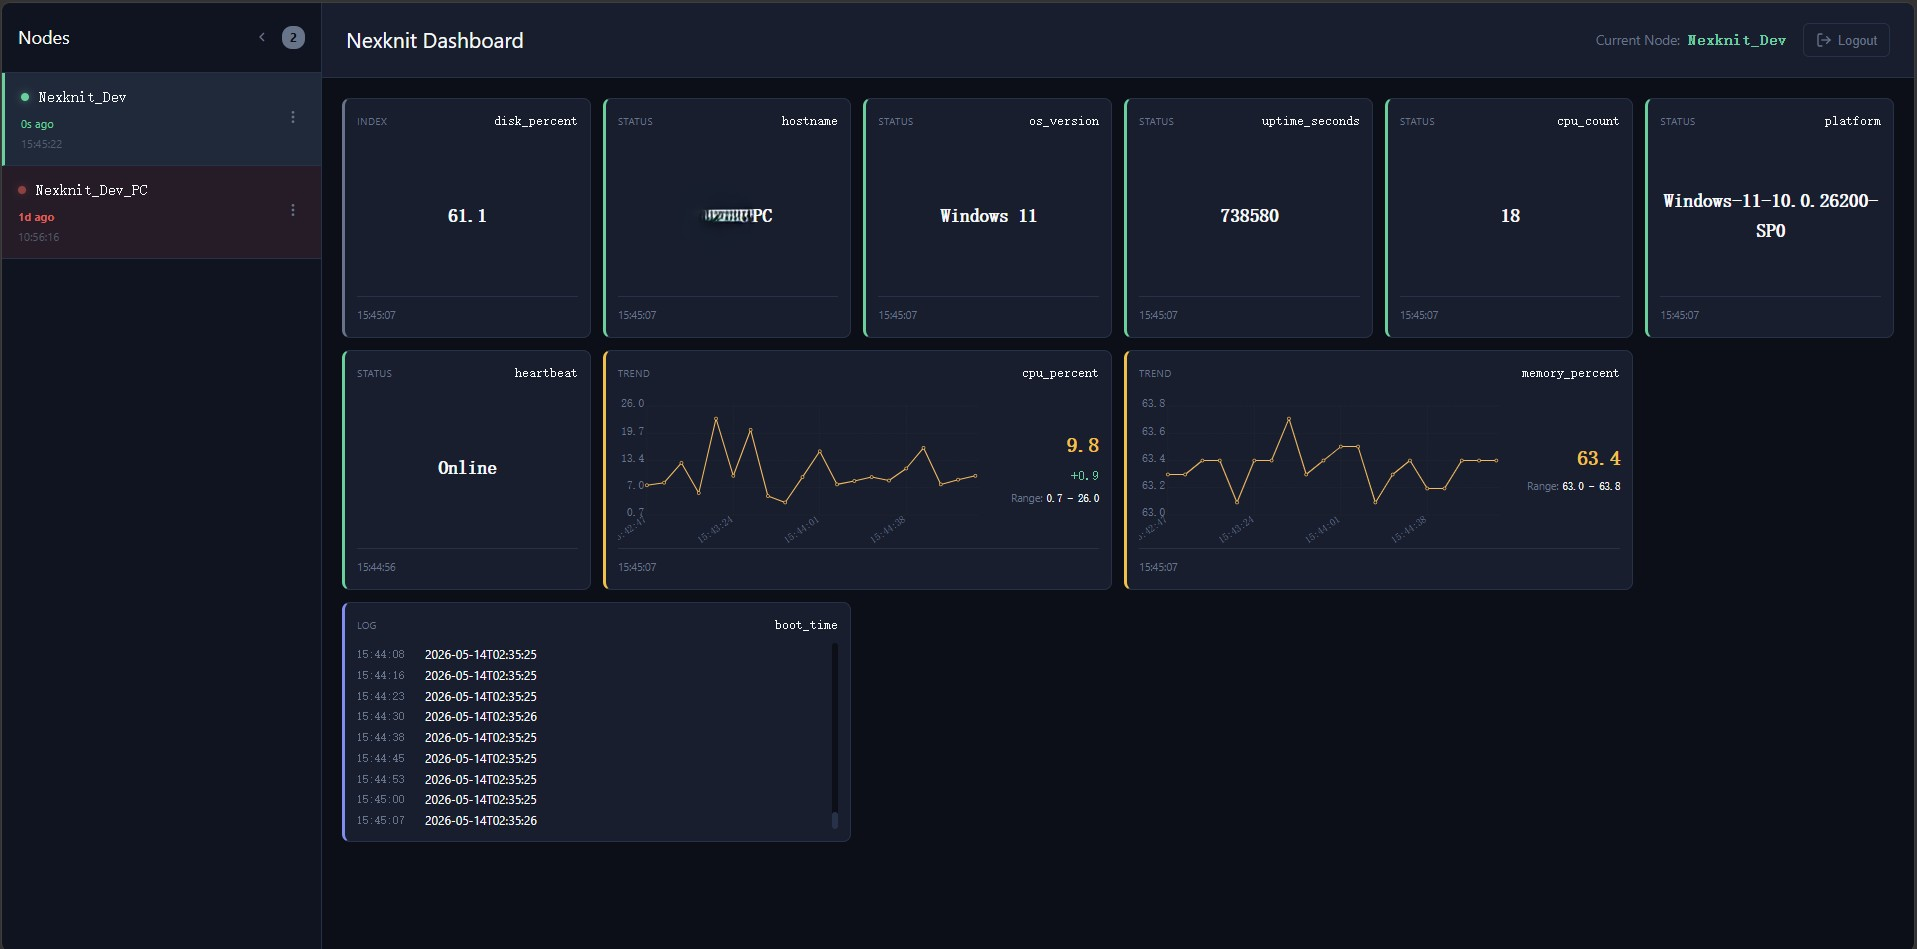
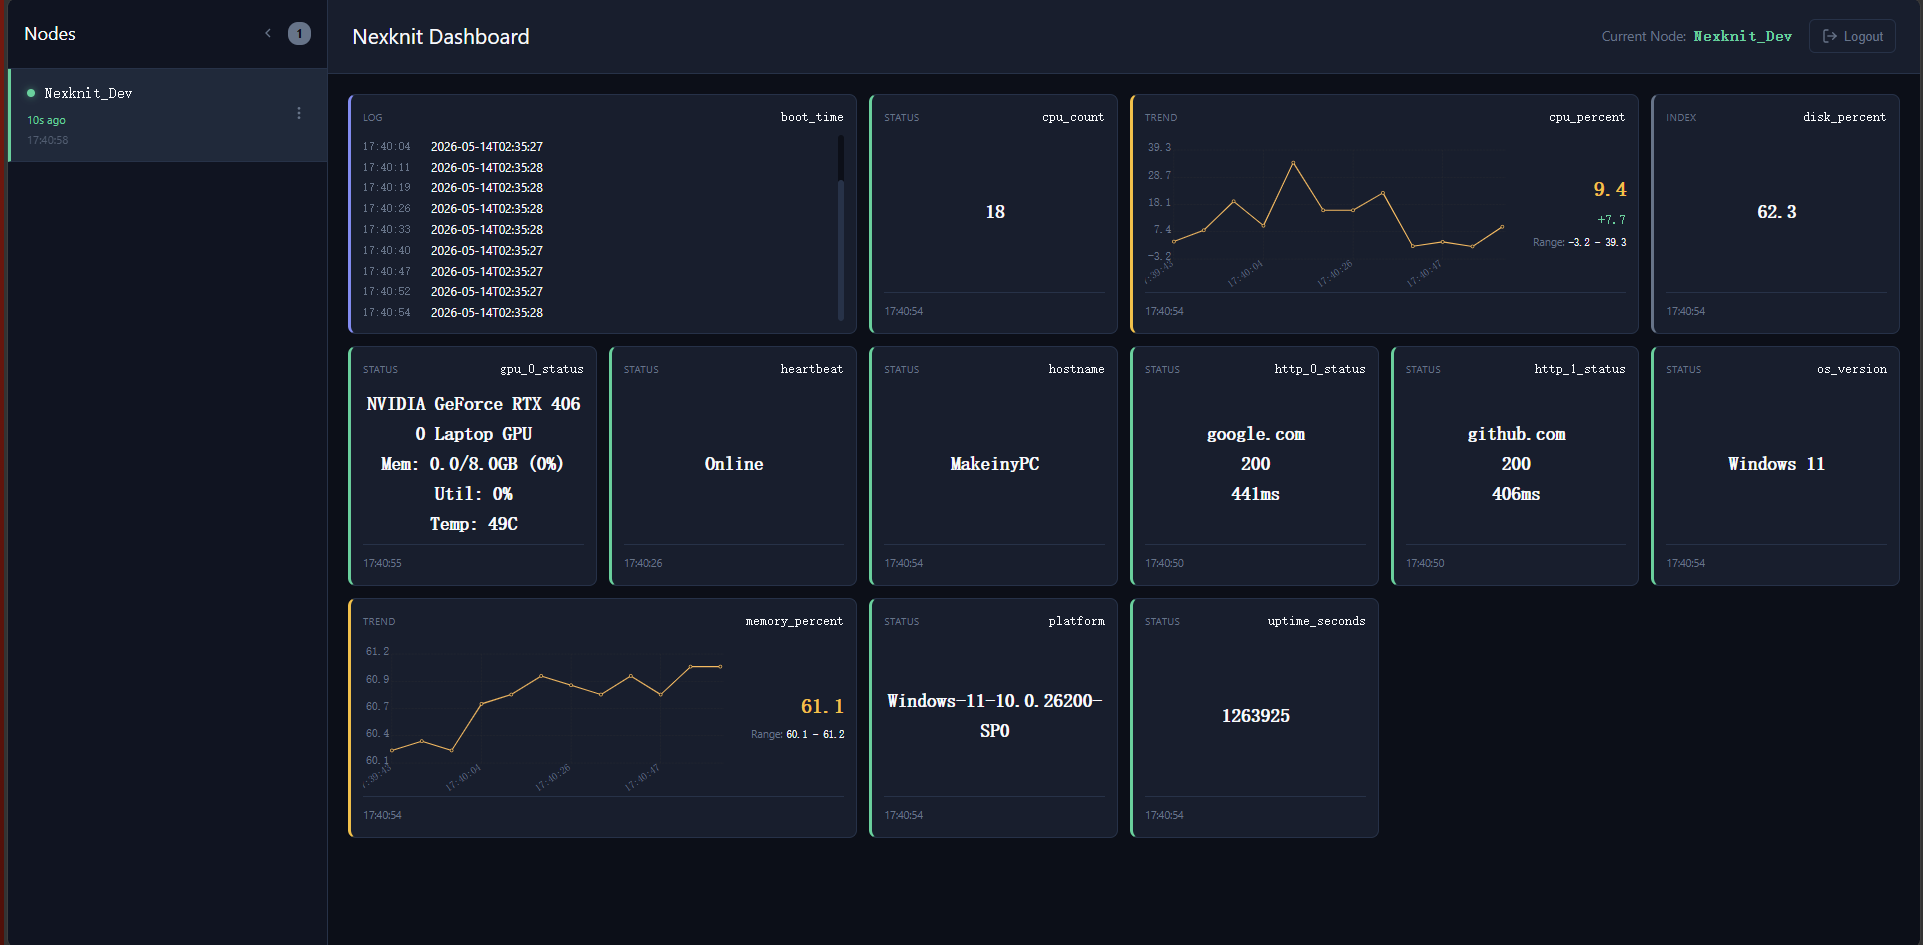
README: Updata image

diff --git a/run_gateway.py b/run_gateway.py
@@ -56,8 +56,8 @@ COLLECTORS: List[Dict[str, Any]] = [
         "class": "HttpAliveCollector",
         "enabled": True,
         "kwargs": {
-            "interval": 30,
-            "timeout": 10,
+            "interval": 5,
+            "timeout": 3,
             "urls": [
                 "https://www.google.com",
                 "https://github.com",
@@ -70,7 +70,7 @@ COLLECTORS: List[Dict[str, Any]] = [
         "class": "SystemStatsCollector",
         "enabled": False,
         "kwargs": {
-            "interval": 10,
+            "interval": 5,
             "storage_path": "./data",
             "max_cache_size": 1000,
             "retry_on_start": True,

diff --git a/README.md b/README.md
@@ -10,7 +10,7 @@
 **Tired of complex configurations or worried about polluting your development environment?**
 **Concerned about introducing security risks, disrupting existing networks, or simply unable to open any devices?**
 
-![Nexknit Dashboard(Hostname masked)](assets/AIDemo.gif)
+![Nexknit Dashboard(Hostname masked)](assets/screenShotForNk.png)
 
 ## **NexKnit — Born from a True Story**
 

diff --git a/assets/README_CN.md b/assets/README_CN.md
@@ -10,7 +10,7 @@
 **觉得配置麻烦，或者害怕污染开发环境？**
 **担心引入安全风险、破坏现有网络，或者干脆无法开放任何设备？**
 
-![Nexknit Dashboard(其中Hostname被脱敏)](assets/AIDemo.gif)
+![Nexknit Dashboard(其中Hostname被脱敏)](assets/screenShotForNk.png)
 
 ## **NexKnit —— 由真实故事开始的回答**
 